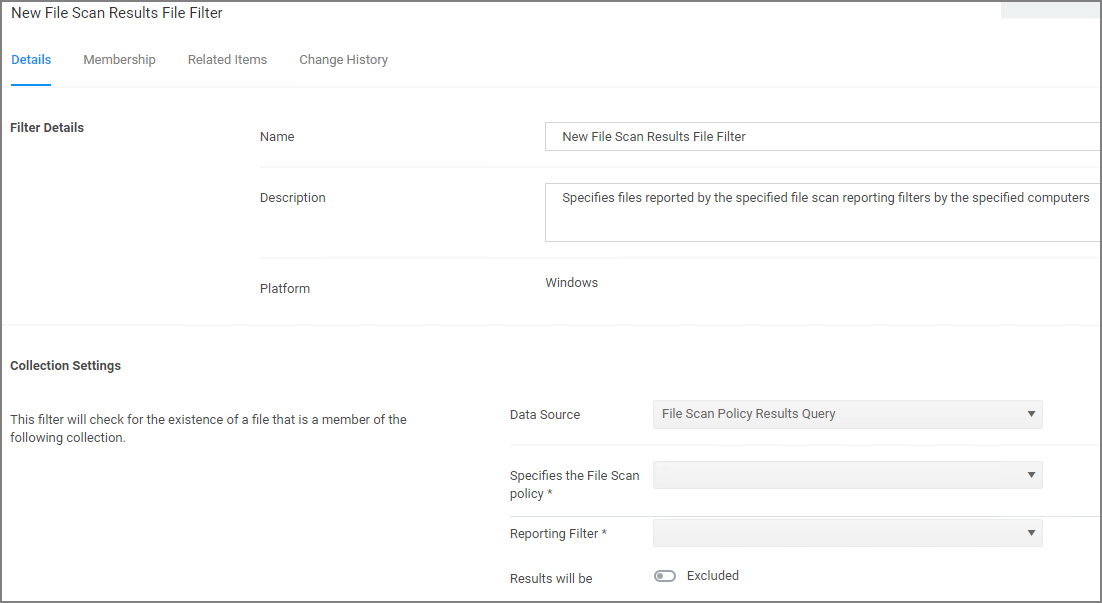
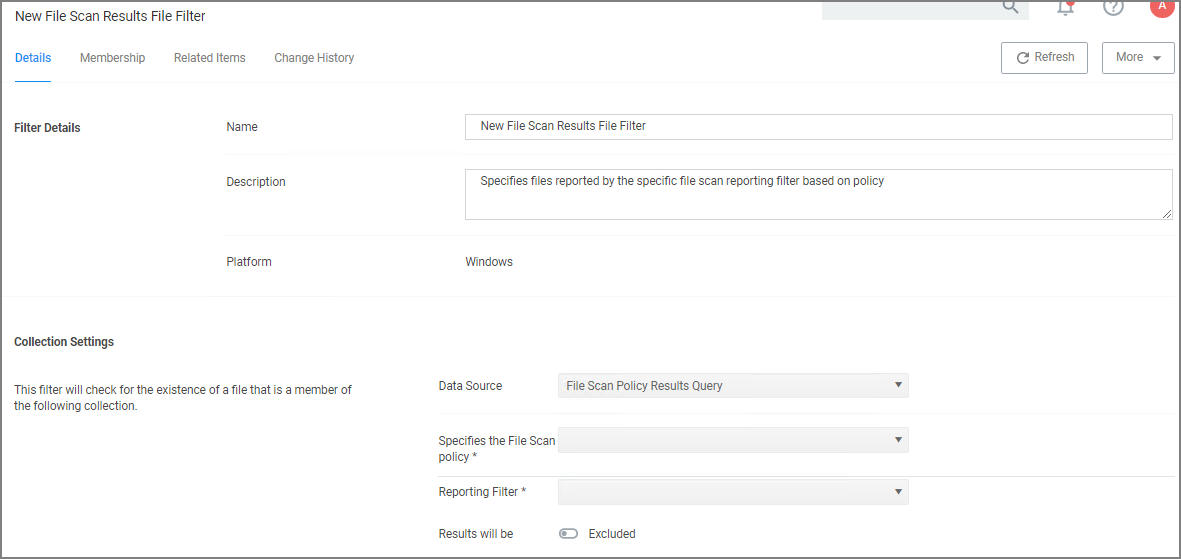
#203402; #203403: changes, improvements, release notes updates for 10.8.1 release

diff --git a/pm-intro/pm-ss-integration.md b/pm-intro/pm-ss-integration.md
@@ -20,80 +20,278 @@ The benefits of Privilege Manager's integration with Secret Server include:
 
 When Secret Server is used as the authentication source for Privilege Manager, Role Permissions assigned in Secret Server are important and determine user access levels in Privilege Manager. Without Secret Server integration, Privilege Manager uses NTLM for WebServer and Azure AD as possible authentication sources.
 
-## Single Site - Implementation Diagrams
+> **Note:** If you are a current customer with support hours for Thycotic Professional Services, you can discuss any of these diagrams in detail with one of our Professional Services Solutions Architects.
 
-### Minimal Single-Site Enterprise Deployment
+## Single Site with Minimum HA
 
-* Minimum Cost HA Configuration – No Shared Storage Requirement.
-* RabbitMQ Installed on Secret Server Web Servers (Typically in a cluster on a primary + secondary node).
-* Single Site design, no native DR capacity. DR can be provided by means of VM replication if subnets are spanning locations, otherwise re-ip + DNS changes may be necessary.
-* Privilege Manager is preferably installed on separate web servers. For smaller environments, Privilege Manager can be installed on the same web servers as Secret Server and can be used for integrating authentication and can store credentials in Secret Server.
-* Privilege Manager can reside on the same database servers as Secret Server or separate database servers, but Secret Server and Privilege Manager should not share the same database itself. Due to SQL Basic Availability groups with Standard Edition, you will need to have multiple instances of SQL and a separate AlwaysOn availability group configuration.
-* Some customers may choose to use a separate web reverse proxy or azure service bus configuration for Privilege Manager agent TCP 443 communication.
+### Overview
 
-![Minimum High Availability](images/ss-int/ss-a1.png "Minimum High Availability")
+- Minimum-cost configuration with no shared storage requirement. 
 
-### Average Single-Site Enterprise Deployment (Reverse Proxy/Azure Bus)
+- RabbitMQ (for SS) is installed on the SS Web servers (typically in a cluster). 
 
-* Minimum Cost HA Configuration – No Shared Storage Requirement.
-* RabbitMQ Installed on separate servers.
-* Single Site design, no native DR capacity. DR can be provided by means of VM replication if subnets are spanning locations, * otherwise re-ip + DNS changes may be necessary.
-* Privilege Manager is preferably installed on separate web servers. For smaller environments, Privilege Manager can be installed on the same web servers as Secret Server and can be used for integrating authentication and can store credentials in Secret Server.
-* Privilege Manager can reside on the same database servers as Secret Server or separate database servers, but Secret Server and Privilege Manager should not share the same database itself. Due to SQL Basic Availability groups with Standard Edition, you will need to have multiple instances of SQL and a separate AlwaysOn availability group configuration.
-* Some customers may choose to use a separate web reverse proxy or azure service bus configuration for Privilege Manager agent TCP 443 communication.
+- Single-site design with no native DR capacity. DR can be provided by VM replication if subnets are spanning locations. Otherwise Re-IP + DNS changes may be necessary. 
 
-![reverse-proxy](images/ss-int/ss-a2.png "Minimum High Availability (Reverse Proxy/Azure Bus)")
+- PM is installed on separate Web servers. 
 
-## Multi Site - Implementation Diagrams
+- PM can integrate with SS for authentication and credential storage. 
 
-### Minimum HA/DR" Enterprise Scale Deployment
+- PM can reside on the same database servers as SS or on separate ones, but SS and PM should not share the same database. 
 
-* Minimum Cost HA Multi-Site Configuration – No Shared Storage Requirement.
-* RabbitMQ Installed on Secret Server Web Servers (Typically in a cluster on a primary + secondary node).
-* Multi-Site Design. SQL AlwaysOn configurations will be either synchronous/asynchronous for Secret Server database and asynchronous only for Privilege Manager database.
-* DR site acts at temporary site only with no intention for long-term usage. Services in DR site being down can incur downtime.
-* Privilege Manager is preferably installed on separate web servers. For smaller environments, Privilege Manager can be installed on the same web servers as Secret Server and can be used for integrating authentication and can store credentials in Secret Server.
-* Privilege Manager can reside on the same database servers as Secret Server or separate database servers, but Secret Server and * Privilege Manager should not share the same database itself. Due to SQL Basic Availability groups with Standard Edition, you will need to have multiple instances of SQL and a separate AlwaysOn availability group configuration.
-* Some customers may choose to use a separate web reverse proxy or azure service bus configuration for Privilege Manager agent TCP 443 communication.
+  > **Note:** Due to SQL basic availability groups with the Standard Edition, you need to have multiple SQL instances and a separate AlwaysOn availability group configuration.
 
-![lowest cost](images/ss-int/ss-a3.png "Minimum High Availability (with Multi Site DR) - Lower Cost/Manual Failover")
+### Requirements
 
-### Average HA/DR" Enterprise Scale Deployment
+- SQL Standard Edition with a basic availability group configuration.
 
-* Average Cost HA Multi-Site Configuration – No Shared Storage Requirement.
-* RabbitMQ Installed on separate servers.
-* Multi-Site Design. SQL AlwaysOn configurations will be either synchronous/asynchronous for Secret Server database and asynchronous only for Privilege Manager database.
-* DR site acts at temporary site only with no intention for long-term usage. Services in DR site being down can incur downtime.
-* Privilege Manager is preferably installed on separate web servers. For smaller environments, Privilege Manager can be installed on the same web servers as Secret Server and can be used for integrating authentication and can store credentials in Secret Server.
-* Privilege Manager can reside on the same database servers as Secret Server or separate database servers, but Secret Server and Privilege Manager should not share the same database itself.
-* Secondary SQL Node at Primary Site for Planned Failover "Patching", Secondary SQL Node in DR Site for Unplanned Failover.
-* Some customers may choose to use a separate web reverse proxy or azure service bus configuration for Privilege Manager agent TCP 443 communication.
+- You can use local load balancers for all Web server nodes.
 
-![average cost](images/ss-int/ss-c.png "Average High Availability (with Multi Site DR) - Average Cost/Manual Failover")
+- For SQL to stay online during single-node unplanned failures, you must configure a file-share witness for SQL quorum voting.
 
-### Best High Availability - Enterprise Scale Deployment
+### Diagram
 
-* Highest Cost HA Multi-Site Configuration – No Shared Storage Requirement.
-* RabbitMQ Installed on separate servers.
-* Multi-Site Design. SQL AlwaysOn configurations will be either synchronous/asynchronous for Secret Server database and asynchronous only for Privilege Manager database.
-* DR site acts at temporary site only with no intention for long-term usage. Services in DR site being down can incur downtime.
-* Privilege Manager is preferably installed on separate web servers. For smaller environments, Privilege Manager can be installed on the same web servers as Secret Server and can be used for integrating authentication and can store credentials in Secret Server.
-* Privilege Manager can reside on the same database servers as Secret Server or separate database servers, but Secret Server and Privilege Manager should not share the same database itself.
-* Secondary SQL Node at Primary Site for Planned Failover "Patching", Secondary SQL Node in DR Site for Unplanned Failover.
-* Some customers may choose to use a separate web reverse proxy or azure service bus configuration for Privilege Manager agent TCP 443 communication.
+> **Note:** The reference for this diagram is A-1.
 
-![high cost](images/ss-int/ss-d1.png "Best High Availability (with Multi Site DR)")
+**Figure:** Single Site with Minimum HA
 
-### Best HA/DR" Enterprise Scale Deployment
+![image-20201001134024324](images/ss-int/image-20201001134024324.png)
 
-* Highest Cost HA Multi-Site Configuration – No Shared Storage Requirement.
-* RabbitMQ Installed on separate servers.
-* Multi-Site Design. SQL AlwaysOn configurations will be either synchronous/asynchronous for Secret Server database and asynchronous only for Privilege Manager database.
-* DR site acts at temporary site only with no intention for long-term usage. Services in DR site being down can incur downtime.
-* Privilege Manager is preferably installed on separate web servers. For smaller environments, Privilege Manager can be installed on the same web servers as Secret Server and can be used for integrating authentication and can store credentials in Secret Server.
-* Privilege Manager can reside on the same database servers as Secret Server or separate database servers, but Secret Server and Privilege Manager should not share the same database itself. 
-* Secondary SQL Node at Primary Site for Planned Failover "Patching", Secondary SQL Node in DR Site for Unplanned Failover.
-* DR site can act as permanent secondary site for long term use.
-* Some customers may choose to use a separate web reverse proxy or azure service bus configuration for Privilege Manager agent TCP 443 communication.
+## Single Site with Minimum HA and Separate RabbitMQ
 
-![high cost](images/ss-int/ss-d2.png "Best High Availability (with Multi Site DR) - Highest Cost/Manual Failover")
+### Overview
+
+- Minimum-cost HA configuration with no shared storage requirement. 
+
+- RabbitMQ (for SS) is installed on the SS Web servers (typically in a cluster). 
+
+- Single-site design with no native DR capacity. DR can be provided by VM replication if subnets are spanning locations. Otherwise Re-IP + DNS changes may be necessary. 
+
+- PM is installed on separate Web servers. 
+
+- PM can integrate with SS for authentication and credential storage. 
+
+- PM can reside on the same database servers as SS or on separate ones, but SS and PM should not share the same database. 
+
+  > **Note:** Due to SQL basic availability groups with the Standard Edition, you need to have multiple SQL instances and a separate AlwaysOn availability group configuration.
+
+- You can use a separate Web reverse proxy or Azure service bus configuration for Privilege Manager agent TCP 443 communication.
+
+### Requirements
+
+- SQL Standard Edition with a basic availability group configuration.
+
+- You can use local load balancers for all Web server nodes.
+
+- For SQL to stay online during single-node unplanned failures, you must configure a file-share witness for SQL quorum voting.
+
+### Diagram
+
+> **Note:** The reference for this diagram is A-2.
+
+**Figure:**  Single Site with Minimum HA and Separate RabbitMQ
+
+![image-20201001133908497](images/ss-int/image-20201001133908497.png)
+
+## Multiple Site with Manual Failover
+
+### Overview
+
+- Minimum-cost HA configuration with no shared storage requirement. 
+
+- RabbitMQ (for SS) is installed on the SS Web servers (typically in a cluster). 
+
+- SQL AlwaysOn configurations are either synchronous or asynchronous for the SS database and asynchronous only for the PM database. 
+
+- DR site acts as a temporary site only with no long-term use. Services in DR site being down can incur downtime.
+
+- PM is installed on separate Web servers. 
+
+- PM can integrate with SS for authentication and credential storage. 
+
+- PM can reside on the same database servers as SS or on separate ones, but SS and PM should not share the same database. 
+
+  > **Note:** Due to SQL basic availability groups with the Standard Edition, you need to have multiple SQL instances and a separate AlwaysOn availability group configuration.
+
+- You can use a separate Web reverse proxy or Azure service bus configuration for Privilege Manager agent TCP 443 communication.
+
+### Requirements
+
+- SQL Standard Edition with a basic availability group configuration.
+- If global load balancers are not available due to cost or limited infrastructure, you can use local load balancers for all Web server nodes, but DNS change may be required if primary location goes offline.
+
+- For SQL to stay online during single-node unplanned failures, you must configure a file-share witness for SQL quorum voting.
+
+### Diagram
+
+> **Note:** The reference for this diagram is B-1.
+
+**Figure:**  Multiple Site with Manual Failover
+
+![image-20201001135416510](images/ss-int/image-20201001135416510.png)
+
+### 
+
+## Multiple Site with Manual Failover and Separate RabbitMQ
+
+### Overview
+
+- Minimum-cost HA configuration with no shared storage requirement. 
+
+- RabbitMQ (for SS) is installed on the SS Web servers (typically in a cluster). 
+
+- SQL AlwaysOn configurations are either synchronous or asynchronous for the SS database and asynchronous only for the PM database. 
+
+- DR site acts as a temporary site only with no long-term use. Services in DR site being down can incur downtime.
+
+- PM is installed on separate Web servers. 
+
+- PM can integrate with SS for authentication and credential storage. 
+
+- PM can reside on the same database servers as SS or on separate ones, but SS and PM should not share the same database. 
+
+  > **Note:** Due to SQL basic availability groups with the Standard Edition, you need to have multiple SQL instances and a separate AlwaysOn availability group configuration.
+
+- You can use a separate Web reverse proxy or Azure service bus configuration for Privilege Manager agent TCP 443 communication.
+
+### Requirements
+
+- SQL Standard Edition with a basic availability group configuration.
+
+- If global load balancers are not available due to cost or limited infrastructure, you can use local load balancers for all Web server nodes, but DNS change may be required if primary location goes offline.
+
+- For SQL to stay online during single-node unplanned failures, you must configure a file-share witness for SQL quorum voting. We recommend a cloud witness.
+
+### Diagram
+
+> **Note:** The reference for this diagram is B-2.
+
+**Figure:**  Multiple Site with Manual Failover and Separate RabbitMQ
+
+![image-20201001150354610](images/ss-int/image-20201001150354610.png)
+
+## Multiple Site with Automatic Failover
+
+###  Overview
+
+- Improved HA configuration with no shared storage requirement. 
+
+- RabbitMQ (for SS) is installed on the SS Web servers (typically in a cluster). 
+
+- SQL AlwaysOn configurations are either synchronous or asynchronous for the SS database and asynchronous only for the PM database. 
+
+- DR site acts as a temporary site only with no long-term use. Services in DR site being down can incur downtime.
+
+- PM is installed on separate Web servers. 
+
+- PM can integrate with SS for authentication and credential storage. 
+
+- PM can reside on the same database servers as SS or on separate ones, but SS and PM should not share the same database. 
+
+  > **Note:** Due to SQL basic availability groups with the Standard Edition, you need to have multiple SQL instances and a separate AlwaysOn availability group configuration.
+
+- You can use a separate Web reverse proxy or Azure service bus configuration for Privilege Manager agent TCP 443 communication.
+
+### Requirements
+
+- SQL Standard Edition with a basic availability group configuration.
+
+- If global load balancers are not available due to cost or limited infrastructure, you can use local load balancers for all Web server nodes, but DNS change may be required if primary location goes offline.
+
+- For SQL to stay online during single-node unplanned failures, you must configure a file-share witness for SQL quorum voting. We recommend a cloud witness.
+
+### Diagram
+
+> **Note:** The reference for this diagram is C-1.
+
+**Figure:** Multiple Site with Automatic Failover
+
+![image-20201001151443366](images/ss-int/image-20201001151443366.png)
+
+## Multiple Site with Automatic Failover and Separate RabbitMQ
+
+###  Overview
+
+- Improved HA configuration with no shared storage requirement. 
+
+- RabbitMQ (for SS) is installed on dedicated servers (typically in a cluster). 
+
+- SQL AlwaysOn configurations are either synchronous or asynchronous for the SS database and asynchronous only for the PM database. 
+
+- DR site acts as a temporary site only with no long-term use. Services in DR site being down can incur downtime.
+
+- PM is installed on separate Web servers. 
+
+- PM can integrate with SS for authentication and credential storage. 
+
+- PM can reside on the same database servers as SS or on separate ones, but SS and PM should not share the same database. 
+
+  > **Note:** Due to SQL basic availability groups with the Standard Edition, you need to have multiple SQL instances and a separate AlwaysOn availability group configuration.
+
+- You can use a separate Web reverse proxy or Azure service bus configuration for Privilege Manager agent TCP 443 communication.
+
+### Requirements
+
+- SQL Enterprise Edition.
+
+- Global and local load balancers.
+
+- If global load balancers are not available due to cost or limited infrastructure, you can use local load balancers for all Web server nodes, but DNS change may be required if primary location goes offline.
+
+- For SQL to stay online during single-node unplanned failures, you must configure a file-share witness for SQL quorum voting. We recommend a cloud witness.
+
+- [Distributed Engine Ports](https://thycotic.force.com/support/s/article/Ports-used-by-Secret-Server).
+
+- [SQL Quorum Ports](http://dsfnet.blogspot.com/2013/04/windows-server-clustering-sql-server.html).
+
+
+### Diagram
+
+> **Note:** The reference for this diagram is C-2.
+
+**Figure:**  Multiple Site with Automatic Failover and Separate RabbitMQ
+
+![image-20201001152436758](images/ss-int/image-20201001152436758.png)
+
+## Best Multiple Site with Automatic Failover and Separate RabbitMQ
+
+###  Overview
+
+- Best HA configuration with no shared storage requirement. 
+
+- RabbitMQ (for SS) is installed on dedicated servers (typically in a cluster). 
+
+- SQL AlwaysOn configurations are either synchronous or asynchronous for the SS database and asynchronous only for the PM database. 
+
+- DR site acts as a temporary site only with no long-term use. Services in DR site being down can incur downtime.
+
+- PM is installed on separate Web servers. 
+
+- PM can integrate with SS for authentication and credential storage. 
+
+- PM can reside on the same database servers as SS or on separate ones, but SS and PM should not share the same database. 
+
+  > **Note:** Due to SQL basic availability groups with the Standard Edition, you need to have multiple SQL instances and a separate AlwaysOn availability group configuration.
+
+- You can use a separate Web reverse proxy or Azure service bus configuration for Privilege Manager agent TCP 443 communication.
+
+### Requirements
+
+- SQL Enterprise Edition.
+
+- Global and local load balancers.
+
+- If global load balancers are not available due to cost or limited infrastructure, you can use local load balancers for all Web server nodes, but DNS change may be required if primary location goes offline.
+
+- For SQL to stay online during single-node unplanned failures, you must configure a file-share witness for SQL quorum voting. We recommend a cloud witness.
+
+- [Distributed Engine Ports](https://thycotic.force.com/support/s/article/Ports-used-by-Secret-Server).
+
+- [SQL Quorum Ports](http://dsfnet.blogspot.com/2013/04/windows-server-clustering-sql-server.html).
+
+### Diagram
+
+> **Note:** The reference for this diagram is C-3.
+
+**Figure:** Best Multiple Site with Automatic Failover and Separate RabbitMQ
+
+![image-20201001153512803](images/ss-int/image-20201001153512803.png)

diff --git a/release-notes/10.8.1-combined.md b/release-notes/10.8.1-combined.md
@@ -9,10 +9,16 @@ Enhancements available with the 10.8.1 release of Privilege Manager. Enhancement
 
 * Improved the way we treat cookies as they pertain to IIS header limits (see https://docs.microsoft.com/en-us/troubleshoot/iis/http-bad-request-response-kerberos) in user group memberships to avoid potential error conditions.
 * Added [Over the Shoulder approvals](../admin/config/foreign-systems/third-party/set-up-servicenow.md) for supervisor roles based on group membership for ServiceNow integrations.
+* Mobile and manual approvals now appear in the approval list in the Privilege Manager Console under __Tools | Manage Approvals__.
+* Improved agent based Directory Services import for added computers.
+* Improved applicable Application Control Configuration policy calculation to honor priority settings.
 
 ### Cloud
 
-* Privilege Manager now inventories domain users and groups in the Local Security Group Policy for Cloud.
+* Privilege Manager now inventories domain users (full username, i.e. domain\username with SID) and groups in the Local Security Group Policy. Resource resolvers can use either to resolve to the unique resource for:
+  * User Context Filter fields
+  * GMA Action fields
+  * Approval metadata reported during approval requests.
 
 ## Bug Fixes
 
@@ -26,14 +32,26 @@ Enhancements available with the 10.8.1 release of Privilege Manager. Enhancement
 * The Application Justification Report by default shows all justification events for all computers instead of just events for the selected computer.
 * Agent versions 10.4 and 10.5 cause error condition "Failed to resolve user SID" during approval workflow.
 * RegEx syntax rules are broken when targeting secondary file filter information.
-Enhancements, Bug Fixes, and Known Issues are for both, On-premises and Cloud, unless otherwise outlined under a specific On-prem or Cloud subtopic.
 * When upgrading from 10.5 (and potentially other prior Privilege Manager versions), you may encounter an `Item Not Found` exception when first navigating to the console.
 * Endpoints on Virtual Machines do not show local users associated with resources.
 * In IE11 the dates in the agent log calendar view are rendered in the same color as the background and only readable when selected.
 * When setting the __Monitor Resource__ switch to active on a computer resource, an error is thrown.
+* Custom Range in Console Log Viewer Only Displays Last Hour of Logs.
+* The File Scan Results File Filter (Policy) shows the wrong description and references computers instead of a specific policy.
+* Issue with using various VirusTotal and Cylance filters in different policies.
+* In the Resource viewer the justification activity shows all justification events in the default "Application Justification Report".
+* When setting the __Monitor Resource__ switch to active on a computer resource, an error is thrown.
+* Missing policy reports not working for all agents.
+* After Upgrading to 10.8.0 AD Sync fails to run with "TypeError: Cannot read property 'Trigger' of null\n at active_directory".
+
+### Cloud
+
+* Windows domain not promoted to AD domain after on-premises agent import.
+* Sign out now working correctly.
 
 ### macOS
 
 * Scheduled commands are run later than their scheduled time due to the last run time timezone offset.
 * Drag-n-drop app bundle from non-DMG can result in dialog asking for credentials.
 * macOS Agent SecurityRatingFilterContract logic is inverted for the Failure and Timeout result.
+* Predefined five XML entities in a policy name causes an exception when creating a ServiceNow approval request.
